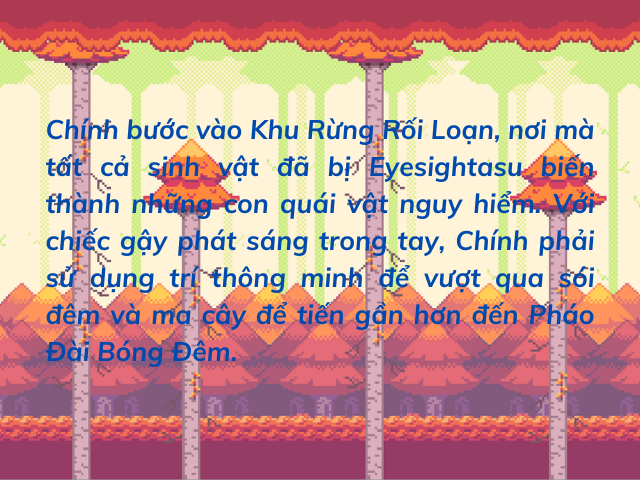
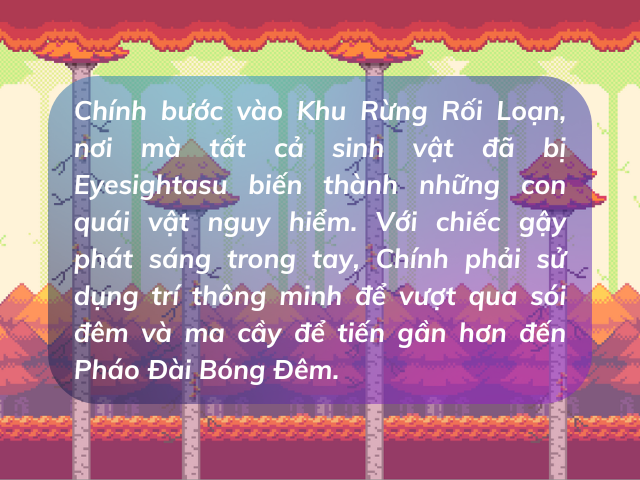
fix lai

diff --git a/core/src/main/java/com/projectoop/game/screens/FourthMapScreen.java b/core/src/main/java/com/projectoop/game/screens/FourthMapScreen.java
@@ -34,7 +34,7 @@ import java.util.concurrent.LinkedBlockingQueue;
 public class FourthMapScreen extends PlayScreen{
     public FourthMapScreen(GameWorld gameWorld){
         super(gameWorld);
-        passThisRound = true; // test
+        //passThisRound = true; // test
 
         mapLoader = new TmxMapLoader();
         map = mapLoader.load("Map4.tmx");
@@ -109,6 +109,8 @@ public class FourthMapScreen extends PlayScreen{
     }
 
     public void update(float dt){//dt = data time
+        super.update(dt);
+
         handleInput(dt);
         handleSpawningItems();
 

diff --git a/core/src/main/java/com/projectoop/game/sprites/trap/Portal.java b/core/src/main/java/com/projectoop/game/sprites/trap/Portal.java
@@ -23,9 +23,9 @@ public class Portal extends InteractiveTileObject{
 
     public void passThisRound(Knight player){
         System.out.println("max_monster: " + screen.creator.getGroundEnemies().size + "  killed: " + screen.kill);
-        if (screen.creator.getGroundEnemies() == null || screen.creator.getGroundEnemies().size <= screen.kill){
+        //if (screen.creator.getGroundEnemies() == null || screen.creator.getGroundEnemies().size <= screen.kill){
             screen.passThisRound = true;
-        }
+        //}
 
     }
 }

diff --git a/core/src/main/java/com/projectoop/game/ui/description/DescriptionPage1.java b/core/src/main/java/com/projectoop/game/ui/description/DescriptionPage1.java
@@ -41,7 +41,7 @@ public class DescriptionPage1 extends UICanvas {
             public void clicked(InputEvent event, float x, float y) {
                 // Chuyển đến trang cuối cùng nếu đây là trang đầu tiên
                 closeDirectly();
-                UIManager.getInstance(UIManager.class).openUI(DescriptionPage2.class);
+                UIManager.getInstance(UIManager.class).openUI(DescriptionPage3.class);
             }
         });
 

diff --git a/core/src/main/java/com/projectoop/game/ui/description/DescriptionPage2.java b/core/src/main/java/com/projectoop/game/ui/description/DescriptionPage2.java
@@ -51,7 +51,7 @@ public class DescriptionPage2 extends UICanvas {
             public void clicked(InputEvent event, float x, float y) {
                 // Quay lại trang đầu tiên (DescriptionPage1)
                 closeDirectly();
-                UIManager.getInstance(UIManager.class).openUI(DescriptionPage3.class);
+                UIManager.getInstance(UIManager.class).openUI(DescriptionPage1.class);
             }
         });
 

diff --git a/core/src/main/java/com/projectoop/game/ui/description/DescriptionPage3.java b/core/src/main/java/com/projectoop/game/ui/description/DescriptionPage3.java
@@ -51,7 +51,7 @@ public class DescriptionPage3 extends UICanvas {
             public void clicked(InputEvent event, float x, float y) {
                 // Chuyển đến trang tiếp theo
                 closeDirectly();
-                UIManager.getInstance(UIManager.class).openUI(DescriptionPage1.class);
+                UIManager.getInstance(UIManager.class).openUI(DescriptionPage2.class);
             }
         });
 

diff --git a/core/src/main/java/com/projectoop/game/screens/PlayScreen.java b/core/src/main/java/com/projectoop/game/screens/PlayScreen.java
@@ -98,7 +98,10 @@ public abstract class PlayScreen implements Screen {
     }
 
     public abstract void spawnItem(ItemDef idef);
-    public abstract void update(float dt);
+    public void update(float dt){
+        //fps
+        world.step(1/60f, 6, 2);
+    }
     public abstract void show();
     public abstract void render(float delta);
     public boolean gameOver(){

diff --git a/core/src/main/java/com/projectoop/game/screens/ThirdMapScreen.java b/core/src/main/java/com/projectoop/game/screens/ThirdMapScreen.java
@@ -74,11 +74,10 @@ public class ThirdMapScreen extends PlayScreen {
 
 
     public void update(float dt){//dt = delta time
+        super.update(dt);
+
         handleInput(dt);
         handleSpawningItems();
-
-        //FPS = 60
-        world.step(1/60f, 6, 2);
 
         player.update(dt);
 

diff --git a/core/src/main/java/com/projectoop/game/screens/FirstMapScreen.java b/core/src/main/java/com/projectoop/game/screens/FirstMapScreen.java
@@ -79,11 +79,10 @@ public class FirstMapScreen extends PlayScreen {
 
 
     public void update(float dt){//dt = delta time
+        super.update(dt);
         handleInput(dt);
         handleSpawningItems();
 
-        //FPS = 60
-        world.step(1/60f, 6, 2);
 
         player.update(dt);
 

diff --git a/core/src/main/java/com/projectoop/game/screens/SecondMapScreen.java b/core/src/main/java/com/projectoop/game/screens/SecondMapScreen.java
@@ -87,11 +87,9 @@ public class SecondMapScreen extends PlayScreen {
 
 
     public void update(float dt){//dt = delta time
+        super.update(dt);
         handleInput(dt);
         handleSpawningItems();
-
-        //FPS = 60
-        world.step(1/60f, 6, 2);
 
         player.update(dt);
 

diff --git a/core/src/main/java/com/projectoop/game/Main.java b/core/src/main/java/com/projectoop/game/Main.java
@@ -23,6 +23,7 @@ public class Main extends Game {
         super.render();
         // GameManager xử lý logic bổ sung nếu cần
         GameManager.getInstance(GameManager.class).update();
+
     }
 
     @Override

diff --git a/core/src/main/java/com/projectoop/game/manager/ScreenManager.java b/core/src/main/java/com/projectoop/game/manager/ScreenManager.java
@@ -32,8 +32,5 @@ public class ScreenManager {
         }
     }
 
-    public Screen getCurrentScreen() {
-        return currentScreen;
-    }
 }
 
